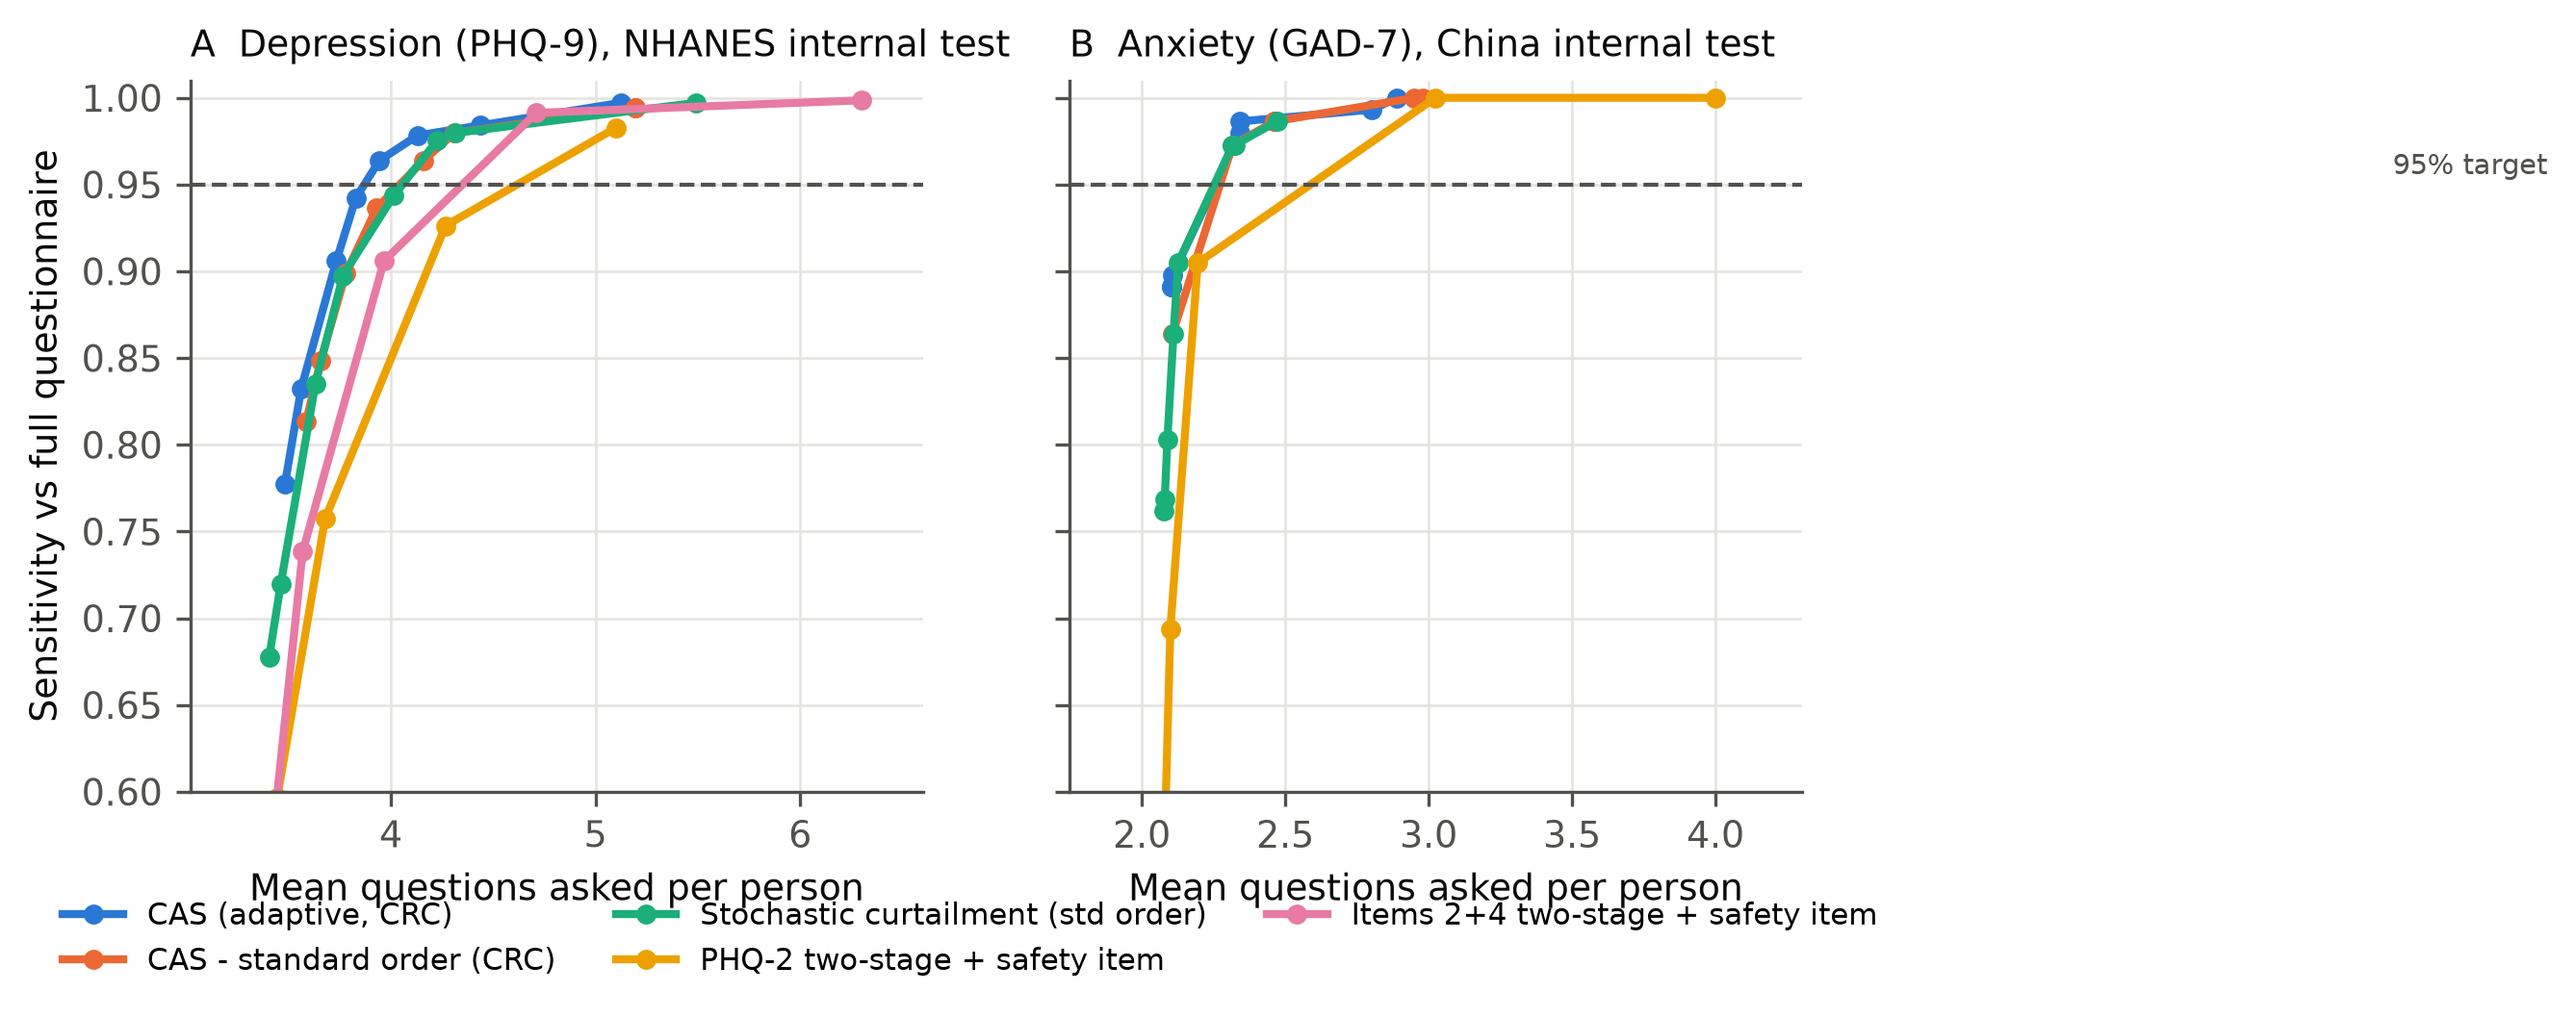
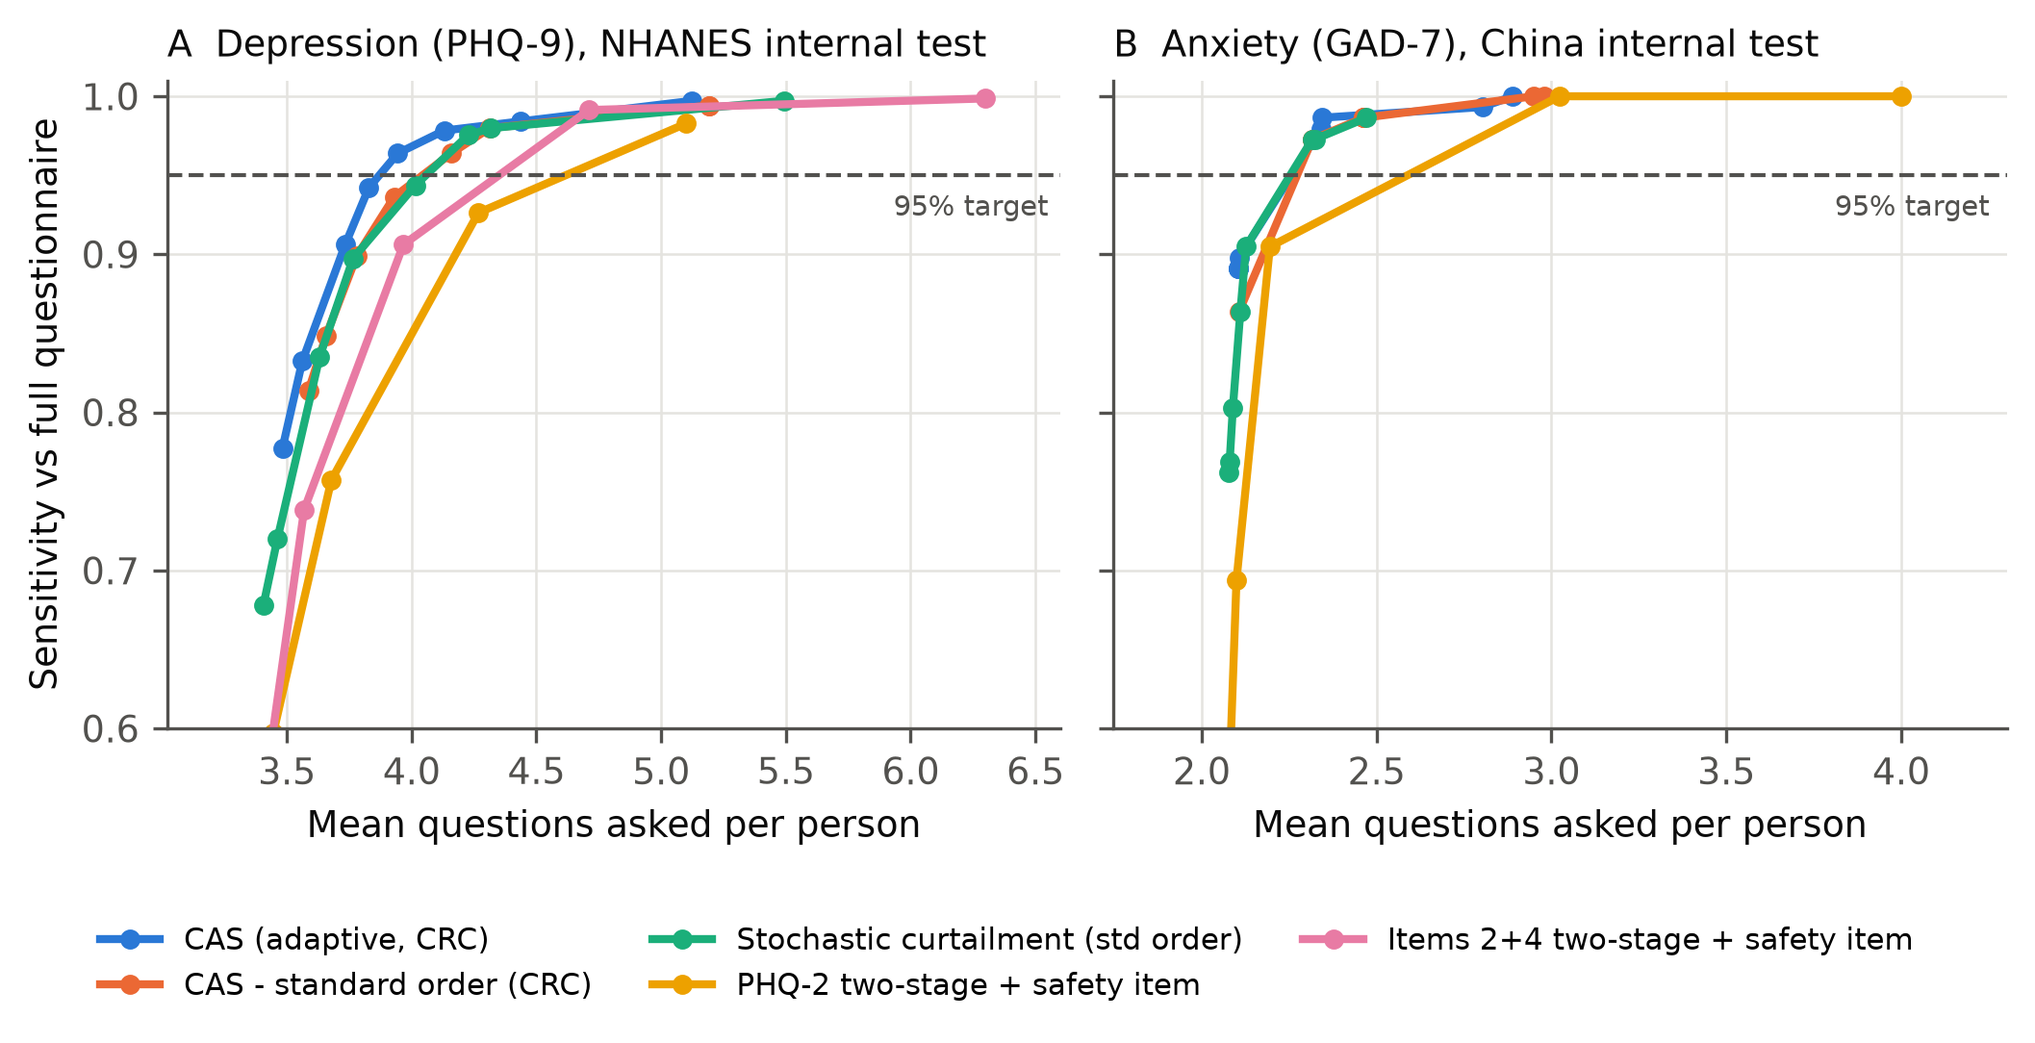
Fix trade-off figure layout and flow diagram; save trade-off curves table

diff --git a/study/run_all.py b/study/run_all.py
@@ -268,22 +268,24 @@ def fig_flow(path):
 
 
 def fig_pareto(curves, path):
-    fig, axes = plt.subplots(1, 2, figsize=(7.2, 3.2), sharey=True)
+    fig, axes = plt.subplots(1, 2, figsize=(7.2, 3.6), sharey=True)
     for ax, (title, cdict, J) in zip(axes, curves):
         for i, (name, pts) in enumerate(cdict.items()):
             pts = sorted(pts)
             xs, ys = zip(*pts)
             ax.plot(xs, ys, marker="o", ms=4, color=C[i], label=name)
+        xs_all = [x for pts in cdict.values() for x, _ in pts]
+        lo, hi = max(0, min(xs_all) - 0.3), max(xs_all) + 0.3
+        ax.set_xlim(lo, hi)
         ax.axhline(1 - ALPHA, color=INK2, lw=1, ls="--")
-        ax.text(J - 0.1, 1 - ALPHA + 0.006, "95% target", ha="right", fontsize=7, color=INK2)
+        ax.text(hi - 0.05, 1 - ALPHA - 0.012, "95% target", ha="right", va="top", fontsize=7, color=INK2)
         ax.set_title(title, fontsize=9, color=INK, loc="left")
         ax.set_xlabel("Mean questions asked per person")
-        xs_all = [x for pts in cdict.values() for x, _ in pts]
-        ax.set_xlim(max(0, min(xs_all) - 0.3), max(xs_all) + 0.3)
     axes[0].set_ylabel("Sensitivity vs full questionnaire")
     axes[0].set_ylim(0.6, 1.01)
     handles, labels = axes[0].get_legend_handles_labels()
-    fig.legend(handles, labels, loc="lower center", ncol=3, fontsize=7.5, bbox_to_anchor=(0.5, -0.12))
+    fig.tight_layout(rect=(0, 0.14, 1, 1))
+    fig.legend(handles, labels, loc="lower center", ncol=3, fontsize=7.5, bbox_to_anchor=(0.5, 0.0))
     fig.savefig(path)
     plt.close(fig)
 
